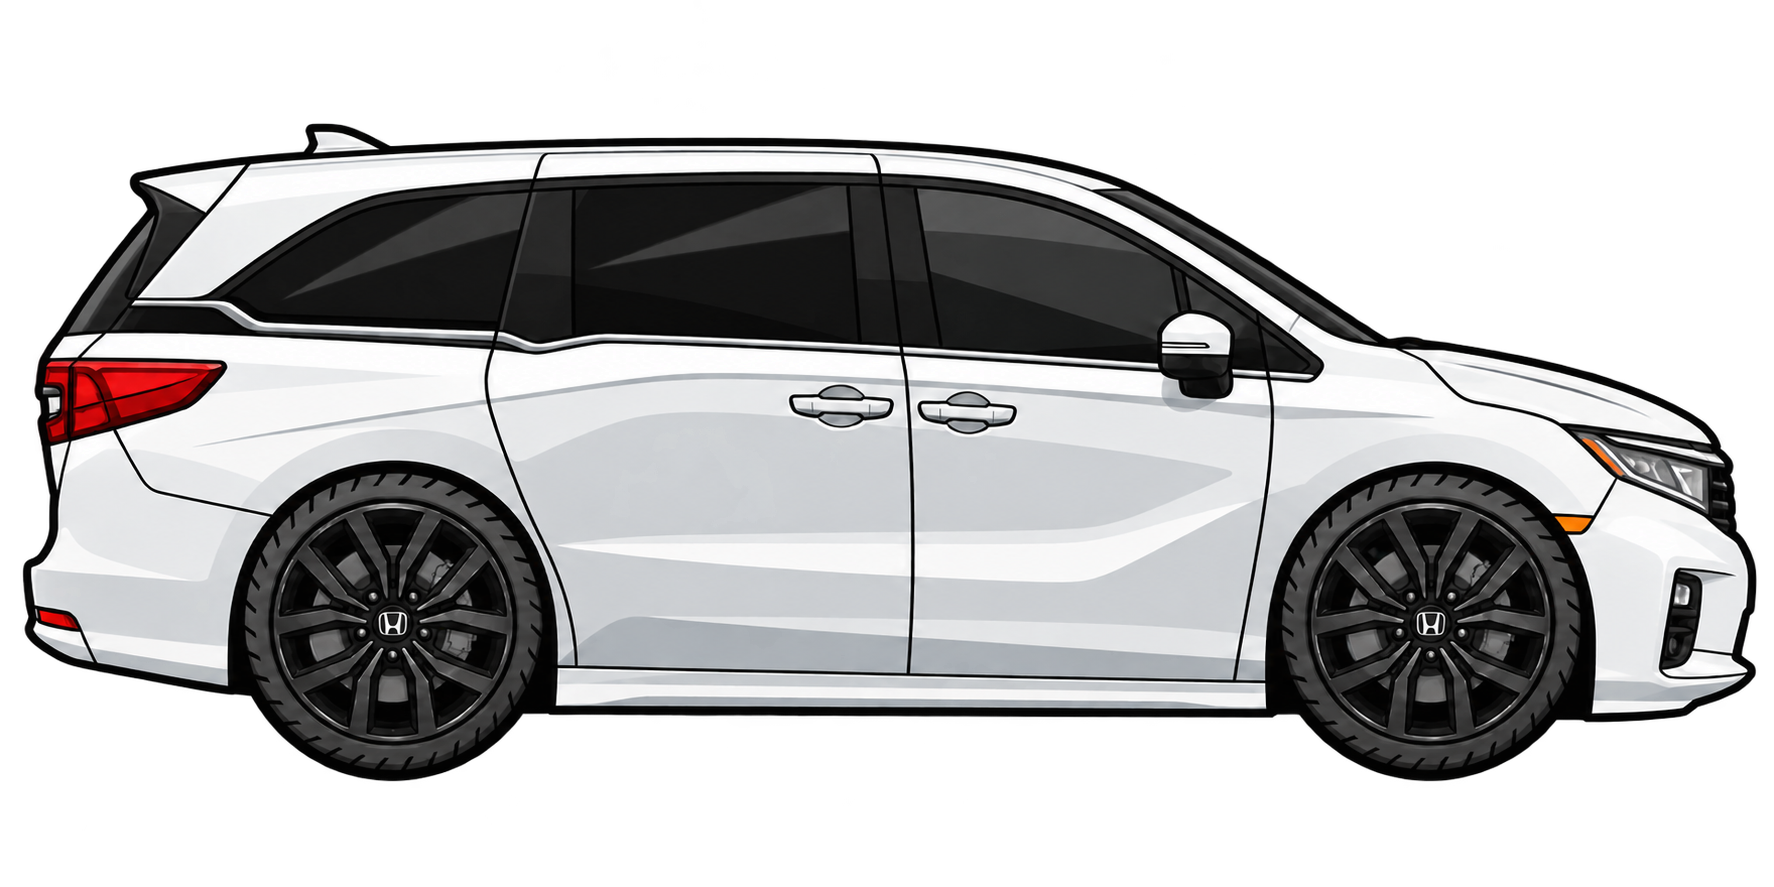
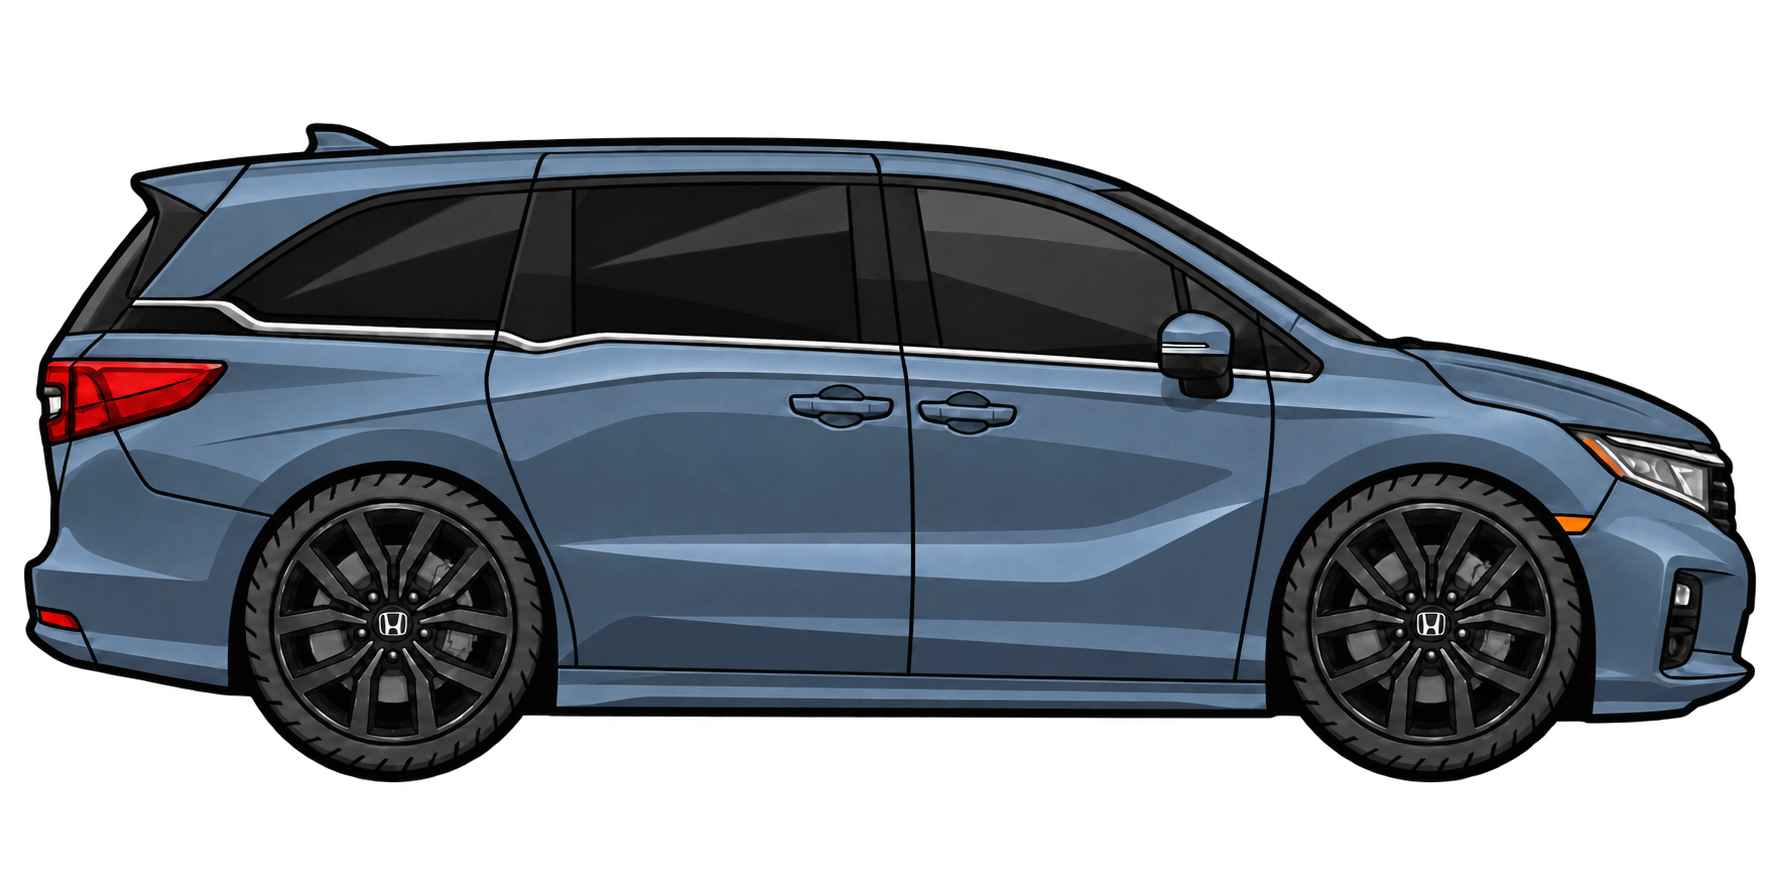
feat(ui): use Smoke Blue Pearl Odyssey artwork

diff --git a/openpilot/system/ui/README.md b/openpilot/system/ui/README.md
@@ -24,8 +24,8 @@ Style guide:
 
 ## Odyssey startup animation
 
-The startup spinner displays brikowski's white Odyssey Sport with rotating wheels
-and a scrolling road. It retains numeric progress and startup text on both display
+The startup spinner displays a Smoke Blue Pearl Odyssey with rotating wheels and
+a scrolling road, adapted from brikowski's artwork. It retains numeric progress and startup text on both display
 sizes. Preview with `BIG=1 python -m openpilot.system.ui.spinner`.
 
 Ported from `brikowski/openpilot:ody-op-test` at
